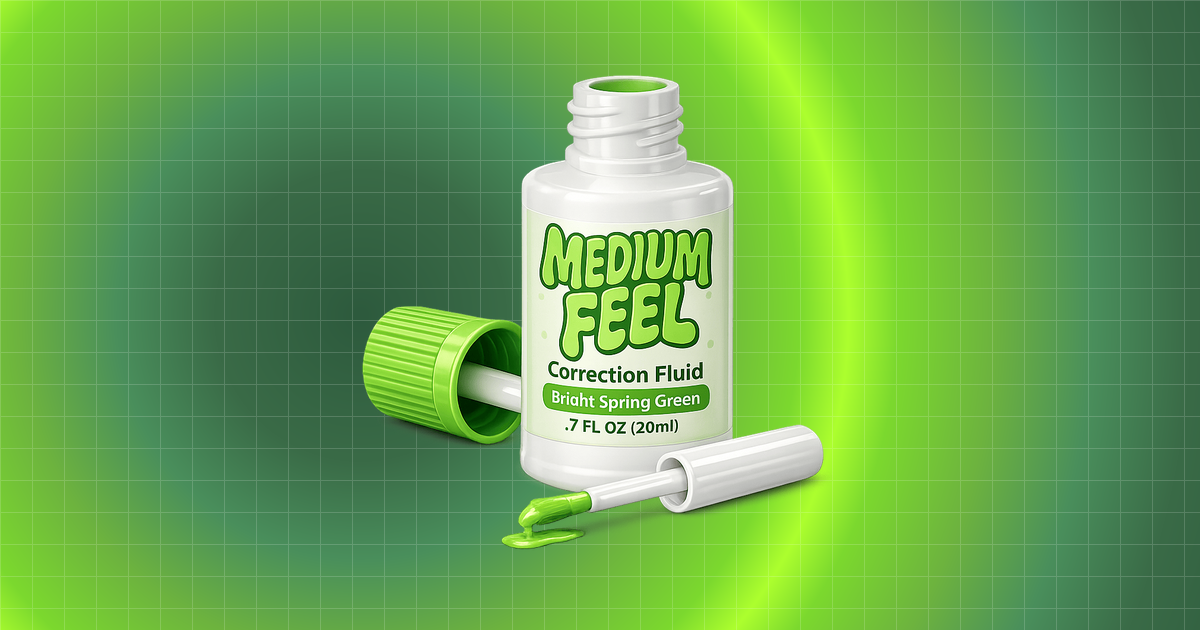
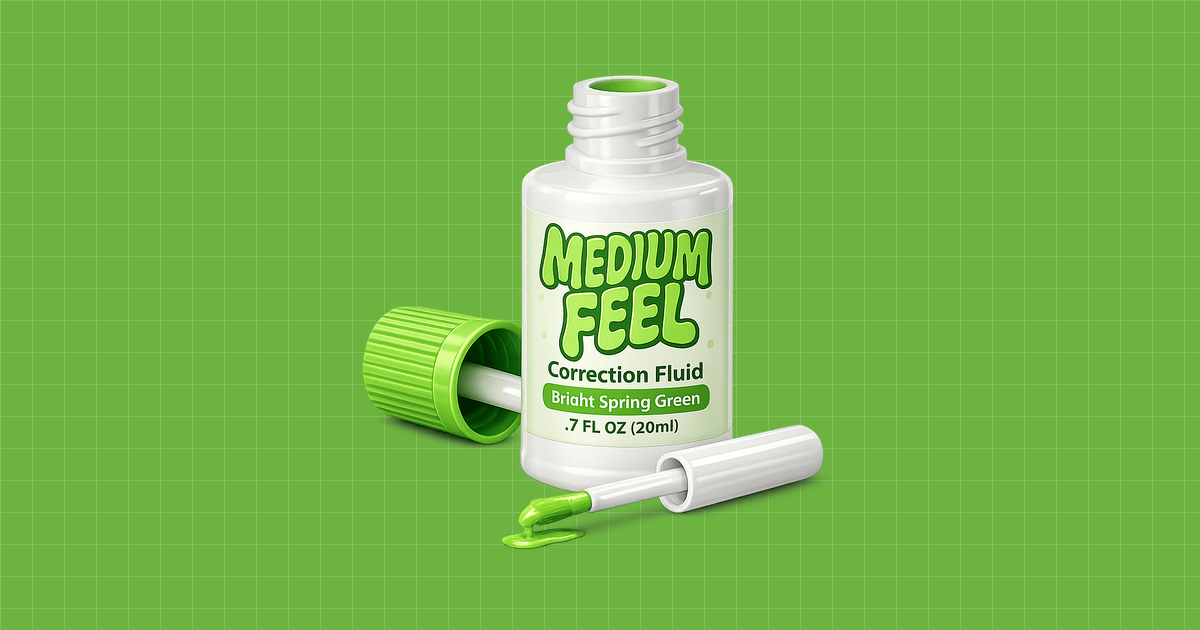
Update OG cards with bright diffuse gradient
Replaces circular radial gradient with soft, atmospheric multi-center
gaussian blobs. Focuses on bright spring green/lime range (0.35-0.60)
with ultra-wide spread to eliminate visible arcs and transitions.

diff --git a/tools/generate-og-card.py b/tools/generate-og-card.py
@@ -8,19 +8,20 @@ Usage:
 Example:
     python3 tools/generate-og-card.py assets/blog/my-post/hero.png my-post
 
-This places the hero image centered on the green post-header gradient
+This places the hero image centered on an amorphous green gradient
 with the site's crosshatch line grid, and saves it to:
     assets/social/og-<post-slug>.png
 """
 
 import sys
 import math
+import random
 from pathlib import Path
 from PIL import Image, ImageDraw
 
 WIDTH, HEIGHT = 1200, 630
 
-# Green radial gradient matching .post-header in blog posts
+# Green gradient colors matching .post-header in blog posts
 GRADIENT_STOPS = [
     (0.00, (45, 90, 61)),    # #2d5a3d
     (0.15, (58, 107, 71)),   # #3a6b47
@@ -38,14 +39,37 @@ GRADIENT_STOPS = [
 
 def create_gradient(w, h):
     img = Image.new('RGBA', (w, h))
-    cx, cy = int(w * 0.3), int(h * 0.5)
-    max_r = math.sqrt((w * 1.5)**2 + (h * 1.2)**2) / 2
+
+    # Multiple gradient centers with very wide spread for maximum diffusion
+    # Each center has (x, y, influence_weight, spread_radius)
+    # Extra-wide spread prevents visible arcs/lines
+    centers = [
+        (int(w * 0.35), int(h * 0.45), 1.3, w * 0.95),   # Primary very-wide glow
+        (int(w * 0.65), int(h * 0.55), 1.0, w * 1.00),   # Secondary ultra-wide
+        (int(w * 0.50), int(h * 0.70), 0.8, w * 0.90),   # Bottom diffuse accent
+        (int(w * 0.20), int(h * 0.30), 0.6, w * 0.85),   # Top-left subtle
+    ]
 
     pixels = img.load()
     for y in range(h):
         for x in range(w):
-            dist = math.sqrt((x - cx)**2 + (y - cy)**2)
-            t = min(dist / max_r, 1.0)
+            # Ultra-soft gaussian falloff for completely diffuse effect
+            influence_sum = 0.0
+            for cx, cy, weight, spread in centers:
+                dx = x - cx
+                dy = y - cy
+                dist_sq = dx * dx + dy * dy
+                # Very gentle gaussian with wide spread to eliminate visible transitions
+                influence = weight * math.exp(-dist_sq / (3 * spread * spread))
+                influence_sum += influence
+
+            # Map to bright lime green range (0.35-0.60 for spring greens + lime)
+            # Higher denominator for more subtle influence mapping
+            t = 1.0 - min(influence_sum / 1.6, 1.0)
+            t = max(0.0, t)
+            # Focus on 0.35-0.60 range (bright greens to lime center)
+            t = 0.35 + t * 0.25
+
             for i in range(len(GRADIENT_STOPS) - 1):
                 if GRADIENT_STOPS[i][0] <= t <= GRADIENT_STOPS[i+1][0]:
                     t_local = (t - GRADIENT_STOPS[i][0]) / (GRADIENT_STOPS[i+1][0] - GRADIENT_STOPS[i][0])
